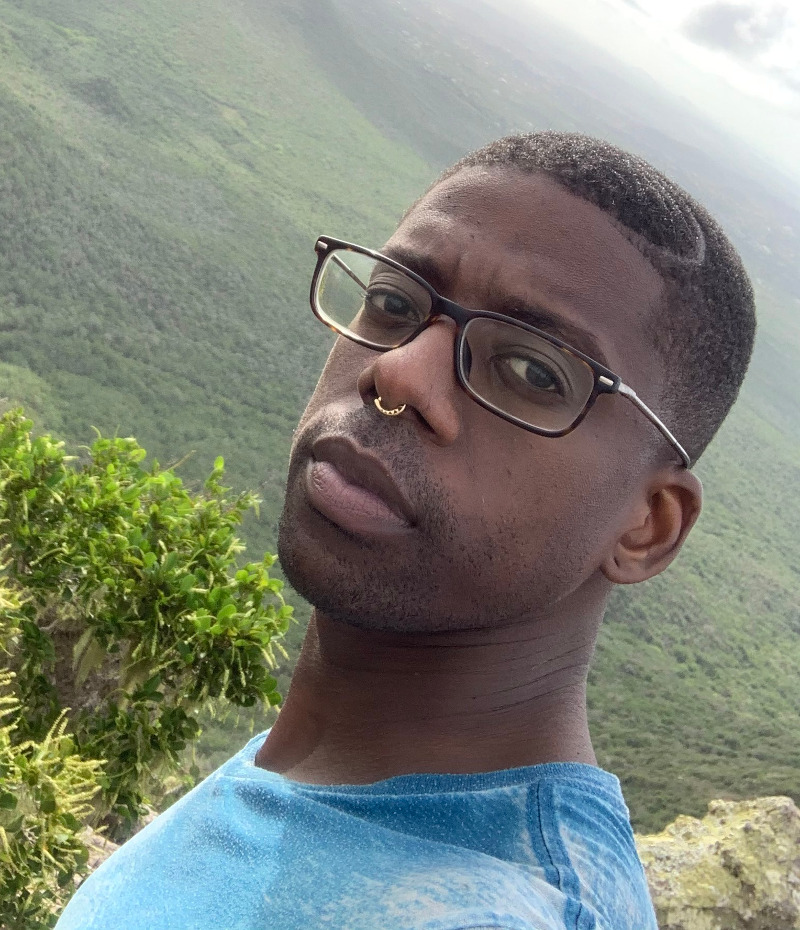
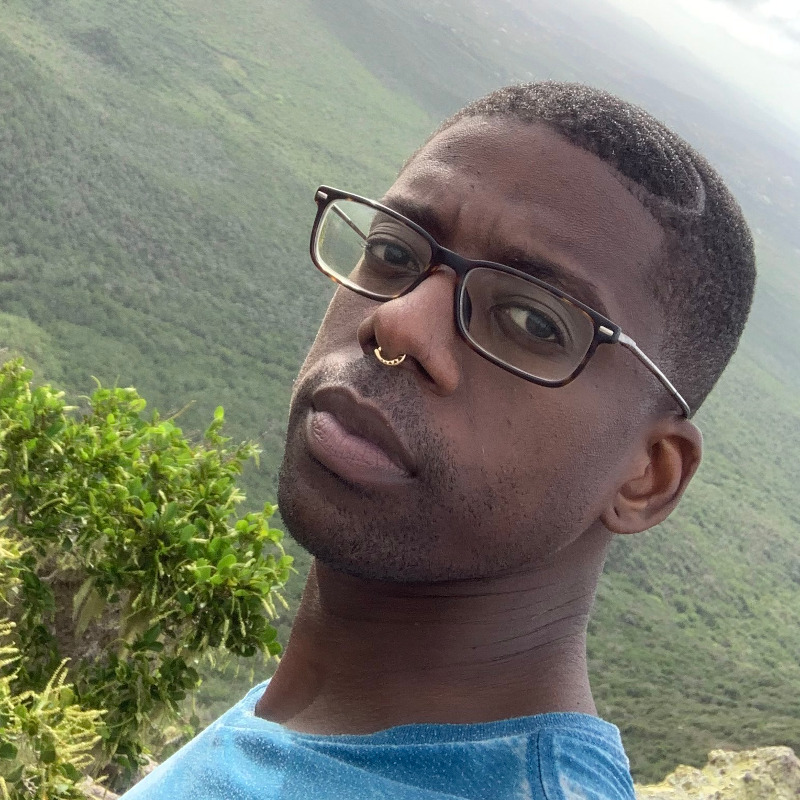
Adding analytics, updating bio photo/about me text and site title/subtitle, working on async ROP article

diff --git a/_posts/2020-01-21-railway-oriented-programming-async.md b/_posts/2020-01-21-railway-oriented-programming-async.md
@@ -1,0 +1,193 @@
+---
+author: Jon Minter
+title:  "Asynchronous Functions and the Railway Oriented Programming Pattern"
+date:   2020-01-21 09:30:00 -0400
+categories:
+    - Posts
+tags:
+    - functional programming
+    - railway oriented programming
+published: false
+---
+Despite the fact that I have mostly used imperative programming languages throughout my career (though some like JavaScript have the ability to be used in a functional way) I have have always had a fascination with functional programming ever since I took a class on functional programming using the OCaml programing language back when I was in undergraduate school.
+
+I won't pretend to be an expert on functional programming or pretend that I have completely wrapped my head around concepts like functors, monads, or applicatives but there was one programming pattern I was reading about a while ago dubbed "Railway Oriented Programming" by Scott Wlaschin that intrigued me.
+
+So what is "Railway Oriented Programming"? Railway Oriented Programming is a pattern for handling branches in logic in your program in a clean and concise way. Instead of nesting if statements you use the power of function composition and a static type system to chain functions together and allow you to choose which branch of logic to go to next skipping over the remaining functions in the chain without having to use exceptions.
+
+Scott Wlaschin uses the anology of of railway switches to visualize how this control flow pattern works. I think its particularly useful for modeling the error handling for your domain logic. It allows handling of errors in a type safe way and force the user to think about both the happy and not so happy paths of the application logic. It's important to note this isn't meant to be a replacement for exceptions but can be used as a different way to think about and model the control flow of your domain logic.
+
+If you are not familiar with this concept you will probably find it helpful to read these posts first to get some context as Scott Wlaschin can explain the concept better than I can:
+- [Railway Oriented Programming - Scott Wlaschin (I highly recommend watching the video of his talk)](https://fsharpforfunandprofit.com/rop/)
+- [Against Railway Oriented Programming - Scott Wlaschin](https://fsharpforfunandprofit.com/posts/against-railway-oriented-programming/)
+
+So you've read these articles and you agree that is this is cool idea and want to start using it where it makes sense in your code base. I was attempting to use this pattern with TypeScript recently. This pattern works great if your switch functions are all synchronous and don't need to wait for an HTTP call, file system operation or database query. You simply start with your initial input and pass that input through your switches along the railway. But lets see what happens when you throw asynchronous functions in the mix.
+
+Let's use as an example validating user input for an API. We'll use the functional programming helper library [True Myth](https://github.com/true-myth/true-myth) for demonstration purposes as it includes an implementation of the Result type and helper functions to wrap/unwrap values and chain together function calls.
+
+Let's consider this example:
+{% highlight typescript %}
+import { Result, Ok, Err } from 'true-myth';
+
+class User {
+    constructor(
+        readonly username: string,
+        readonly firstName: string,
+        readonly lastName: string,
+    ) {}
+}
+
+function validateUsernameNotEmpty(input: User): Result<User, string> {
+    if (input.username.length === 0) {
+        return Result.err('Username cannot be empty!');
+    }
+    return Result.ok(input);
+}
+
+function validateUsernameHasValidChars(input: User): Result<User, string> {
+    if (!input.username.matches(/^[A-Za-z0-9_-]$/)) {
+        return Result.err('Username must only contain alphanumeric chars and dashes/underscores');
+    }
+    return Result.ok(input);
+}
+
+function printValidUser(input: User) {
+    console.log('User is valid: ', input);
+}
+
+function printError(errorMessage: string) {
+    console.log('User is invalid: ', errorMessage);
+}
+
+const newUser = User('', 'Jon', 'Minter');
+Result.ok(newUser)
+    .andThen(validateUsernameNotEmpty)
+    .andThen(validateUsernameHasValidChars)
+    .match({
+        Ok: user => printValidUser(user),
+        Err: errorMsg => printError(errorMsg),
+    });
+{% endhighlight %}
+
+We can see how this pattern might be useful for a few reasons:
+- Allows us to write small, focused functions to handle different validations and compose then together
+- These small functions are easier to test
+- We can use descriptive names for each function and makes it easy to see what our code is supposed to do by looking at functions that are chained together, our code becomes self documenting
+
+So this is all well and good but what if for example we needed to validate that the username isn't in use by another user? We'd probably have to make a call to an API or run a query against a database to check if the user name is unique. And that call is going to be an asynchronous call that returns a promise. Why is this an issue? Let's consider this addition to our code:
+
+{% highlight typescript %}
+...
+
+async function validateUsernameIsUnique(input: User): Promise<Result<User, string>> {
+    const userCount = await getCountOfUsersWithUsername(input.username);
+    if (userCount !== 0) {
+        return Result.err('Username is not unique!');
+    }
+    return Result.ok(input);
+}
+
+...
+
+Result.ok(newUser)
+    .andThen(validateUsernameNotEmpty)
+    .andThen(validateUsernameHasValidChars)
+    .andThen(validateUsernameIsUnique)
+    .match({
+        Ok: user => printValidUser(user),
+        Err: errorMsg => printError(errorMsg),
+    });
+{% endhighlight %}
+
+So what's the problem here? Remember when we create an async function in JavaScript this is syntactic sugar for converting the function into a function that returns a promise. So if you tried compile this code it would fail compilation since it no longer returns `Result<User, String>` but `Promise<Result<User, String>>` so it cannot be included in the chain of functions.
+
+So you might say why not just use promises instead of this Result type? Well we could but since a promise doesn't enforce a failure type the TypeScript compiler can only guarantee the types along the happy path and not the failure path. A promise failure is just _some_ error type, it could be a string,  it could be an Error object, it could be a number, anything.
+
+Another alternative is use the Result type and then every time we get to a point where we need to perform an async operation switch to using promises and then back to our ROP pattern.
+
+Example:
+{% highlight typescript %}
+...
+
+async function validateUsernameIsUnique(input: User): Promise<Result<User, string>> {
+    const userCount = await getCountOfUsersWithUsername(input.username);
+    if (userCount !== 0) {
+        //There is another user with this username
+        return Result.err('Username is not unique!');
+    }
+    return Result.ok(input);
+}
+
+...
+
+async function doValidation(newUser: User) {
+    let validationResult = Result.ok(newUser)
+        .andThen(validateUsernameNotEmpty)
+        .andThen(validateUsernameHasValidChars);
+
+    if (validationResult.isOk()) {
+        validationResult = await validateUsernameIsUnique(validationResult.value);
+    }
+    validationResult
+        .match({
+            Ok: user => printValidUser(user),
+            Err: errorMsg => printError(errorMsg),
+        });
+}
+{% endhighlight %}
+
+This works but it's messy and makes us use a different pattern for synchronous vs asynchronous logic. And this is a fairly simple contrived example imagine trying to maintain a large codebase having to do this switching between sync/async logic. We don't have our clean railway pattern anymore.
+
+Also what if we wanted to have the ability to collect a list of functions to chain together at runtime and some or all of those function are asyncronous? We aren't able to do that either.
+
+{% highlight typescript %}
+const validators = [
+    validateUsernameNotEmpty,
+    validateUsernameHasValidChars,
+    validateUsernameIsUnique,
+];
+
+validators.reduce((result, validator) => {
+    return result.andThen(validator); // Oops can't do this if one of these return a Promise
+}, Result.ok(input));
+{% endhighlight %}
+
+{% highlight typescript %}
+...
+
+async function validateUsernameIsUnique(input: User): Promise<Result<User, string>> {
+    const userCount = await getCountOfUsersWithUsername(input.username);
+    if (userCount !== 0) {
+        //There is another user with this username
+        return Result.err('Username is not unique!');
+    }
+    return Result.ok(input);
+}
+
+...
+
+async function doValidation(newUser: User) {
+    let validationResult = Result.ok(newUser)
+        .andThen(validateUsernameNotEmpty)
+        .andThen(validateUsernameHasValidChars);
+
+    if (validationResult.isOk()) {
+        validationResult = await validateUsernameIsUnique(validationResult.value);
+    }
+    return validationResult;
+}
+
+doValidation(newUser)
+    .match({
+        Ok: user => printValidUser(user),
+        Err: errorMsg => printError(errorMsg),
+    });
+{% endhighlight %}
+
+
+So how could we solve this? Is there a way to model this so we can handle both async and sync functions and still use this ROP pattern? Lets harness the power of RxJS the reactive extensions framework for JavaScript. 
+
+Here's an implementation idea using custom RxJs operators to allow this:
+
+
+You can see a [complete code example](https://www.github.com/jonminter/railway-oriented-programming-async) on my github.

diff --git a/_pages/about.md b/_pages/about.md
@@ -3,8 +3,8 @@ title:  "About Me"
 date:   2020-01-15 09:30:00 -0400
 permalink: /about/
 ---
-Software engineer with over a decade of proven technical ability and leadership. Passionate about technology and continuing to learn and teach others.
+Software engineer with over a decade of proven technical ability and leadership. Passionate about technology, continuing to learn and transferring that knowledge to others.
 
-Expertise in service oriented architecture/microservices, cloud engineering and blah. Currently trying to learn all I can about topics like concurrency, distributed systems and machine learning/AI.
+Expertise in service oriented architecture/microservices, cloud engineering and designing scalable software systems. Currently trying to learn all I can about topics like functional programming, concurrency, distributed systems and machine learning/AI.
 
 When I'm not in front of of a computer screen you can find me out for run or a hike, in the rock climbing gym or doing some traveling. 

diff --git a/_pages/category-archive.md b/_pages/category-archive.md
@@ -1,0 +1,6 @@
+---
+title: "Posts by Category"
+layout: categories
+permalink: /categories/
+author_profile: true
+---

diff --git a/_pages/tag-archive.md b/_pages/tag-archive.md
@@ -1,0 +1,6 @@
+---
+title: "Posts by Tag"
+permalink: /tags/
+layout: tags
+author_profile: true
+---
